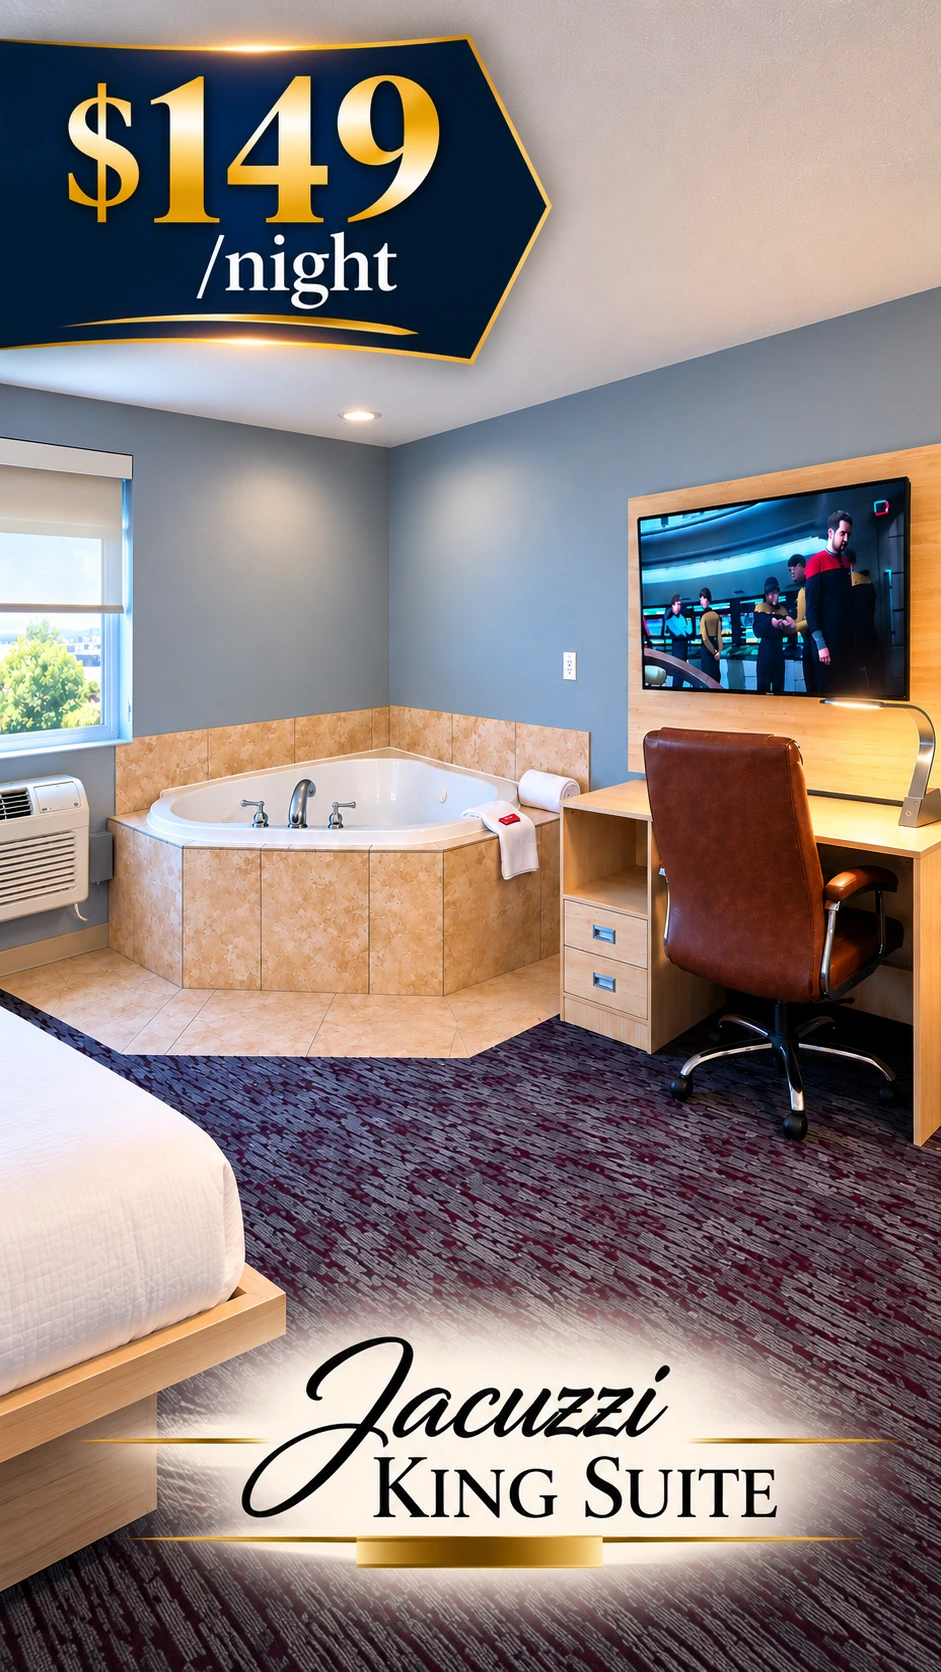
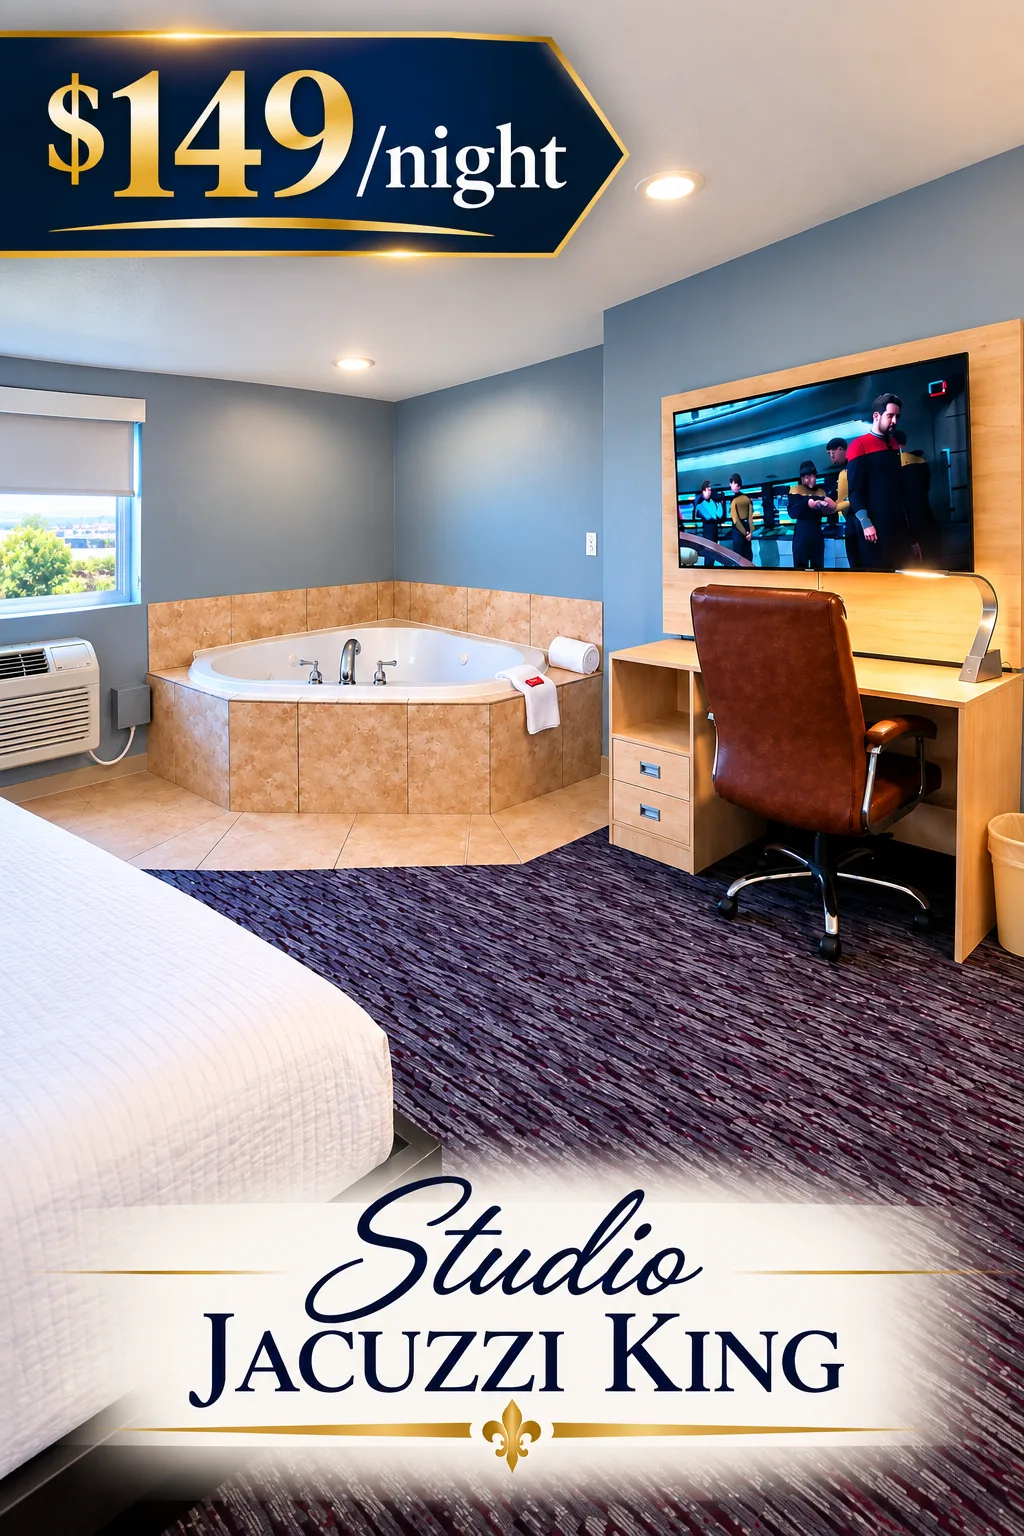
k

diff --git a/src/data/rooms.ts b/src/data/rooms.ts
@@ -1122,22 +1122,23 @@ export const ROOMS: Room[] = [
 
   // ───────────────────────────────────────────────────────────────────────────
   {
-    slug: 'jacuzzi-studio-king',
-    // Labelled "Jacuzzi King Suite" on the folder's own export, and listed as
-    // "King Jacuzzi Suite" in the old homepage rate table. RENAMED 2026-09-16
-    // on the owner's instruction — "use only Studio, not Suite" — following the
-    // rate card's pattern (Studio Queen, Studio King, Studio Two Queen). The
-    // labelled exports keep the old name in their pixels until re-exported.
-    name: 'Jacuzzi Studio King',
-    shortName: 'Jacuzzi Studio King',
-    heroSlideId: 'jacuzzi-studio-king',
+    slug: 'studio-jacuzzi-king',
+    // THE NAME IS THE OWNER'S OWN, off the labelled export. It has moved twice:
+    // "Jacuzzi King Suite" (the original export) → "Jacuzzi Studio King" (my
+    // reading of "use only Studio, not Suite", 2026-09-16) → "Studio Jacuzzi
+    // King", which is what the owner's re-exported label actually reads
+    // (2026-09-17, public/images/Jacuzzi-Studio/Jacuzzi-Studio-Labeled-$149.webp).
+    // Neither earlier slug was ever deployed, so no redirect is needed.
+    name: 'Studio Jacuzzi King',
+    shortName: 'Studio Jacuzzi King',
+    heroSlideId: 'studio-jacuzzi-king',
     eyebrow: 'In-Room Jacuzzi · One King Bed · Kitchenette',
-    // RATES.nightly.jacuzziStudioKing is null pending the owner's confirmation of
+    // RATES.nightly.studioJacuzziKing is null pending the owner's confirmation of
     // the $149 on the labelled export — see its note in rates.ts. Nothing below
     // states a price, so confirming it is a one-line change there. When it is,
     // add the price to seo.title and seo.description, the way every other room
     // carries its own.
-    nightly: nightlyQuote(RATES.nightly.jacuzziStudioKing),
+    nightly: nightlyQuote(RATES.nightly.studioJacuzziKing),
     weekly: WEEKLY_CALL_LINE,
     // Both reused verbatim from the homepage rate table's "King Jacuzzi Suite"
     // row, which has published them for this room since before this page.
@@ -1162,7 +1163,7 @@ export const ROOMS: Room[] = [
       src: 'images/Jacuzzi-Studio/Jacuzzi-Suite1.webp',
       portrait: 'images/Jacuzzi-Studio/Jacuzzi-Suite-phoneview1.webp',
       caption: 'The corner jacuzzi in the room itself, beside the desk and the window.',
-      alt: 'Jacuzzi Studio King with a corner jacuzzi in the room beside the desk — Best Western Vernal Inn, Vernal Utah',
+      alt: 'Studio Jacuzzi King with a corner jacuzzi in the room beside the desk — Best Western Vernal Inn, Vernal Utah',
     },
     gallery: [
       {
@@ -1229,7 +1230,7 @@ export const ROOMS: Room[] = [
       ...STANDARD_BATHROOM('Jacuzzi-Studio', 'Jacuzzi'),
     ],
     about: [
-      'The Jacuzzi Studio King is the room with the tub in it. A corner jacuzzi sits in a tiled surround in the main room — not behind the bathroom door — beside the desk and the window, so a long soak is part of the room rather than an afterthought. The homepage rate table lists it for romance and special occasions, and that is exactly what it is for.',
+      'The Studio Jacuzzi King is the room with the tub in it. A corner jacuzzi sits in a tiled surround in the main room — not behind the bathroom door — beside the desk and the window, so a long soak is part of the room rather than an afterthought. The homepage rate table lists it for romance and special occasions, and that is exactly what it is for.',
       'One king bed sits on a light-wood platform frame against the navy accent wall, with a panelled headboard, a wall-mounted reading light and a nightstand on each side. Beside it a two-seat sofa and a floor lamp sit by the window, which looks out over Vernal.',
       'It has the same kitchenette as the rest of the property — a sink and a two-burner cooktop in the counter, cabinets, a microwave, a coffee maker and a full-height refrigerator with a freezer — on a tiled floor. There is a desk with a leather office chair and a reading lamp under a wall-mounted TV, a table with two upholstered chairs by the door, and an open closet with a hanging rail, an iron and an ironing board. The bathroom is the property standard: a granite vanity with a backlit mirror, a full-size tub and shower combination, and a tiled floor.',
       'Free hot breakfast, free WiFi and free parking come with every stay, and the front desk is staffed around the clock. The homepage rate table lists this room as sleeping one to two. Weekly rates are quoted by phone.',
@@ -1257,9 +1258,9 @@ export const ROOMS: Room[] = [
       { label: '24-hour front desk', source: 'site' },
     ],
     seo: {
-      title: 'Jacuzzi Studio King — In-Room Jacuzzi | Best Western Vernal Inn, Vernal Utah',
+      title: 'Studio Jacuzzi King — In-Room Jacuzzi | Best Western Vernal Inn, Vernal Utah',
       description:
-        'Jacuzzi Studio King at Best Western Vernal Inn in Vernal, Utah: a corner jacuzzi in the room, one king bed, a sofa and a full kitchenette. Free hot breakfast, WiFi and parking. Weekly rates — call for price.',
+        'Studio Jacuzzi King at Best Western Vernal Inn in Vernal, Utah: a corner jacuzzi in the room, one king bed, a sofa and a full kitchenette. Free hot breakfast, WiFi and parking. Weekly rates — call for price.',
       bedType: 'King',
       // The rate table's "1–2" for this room, the same licence Studio King's
       // occupancy of 2 rests on.

diff --git a/src/data/homeRoomTabs.ts b/src/data/homeRoomTabs.ts
@@ -29,7 +29,7 @@
 // there fixes the homepage in the same edit. A filename that does not resolve
 // fails the build rather than shipping a broken tile.
 //
-// EVERY TAB IS DRIVEN BY ROOMS, the Jacuzzi Studio King's included. Until
+// EVERY TAB IS DRIVEN BY ROOMS, the Studio Jacuzzi King's included. Until
 // 2026-09-16 that one was written out by hand here, because the room had
 // photographs but no page. It has a page now; its nightly rate is still null
 // pending confirmation, which priceTag() renders as "Call for rate" without any
@@ -96,7 +96,7 @@ function frame(room: Room, file: string): RoomPhoto {
   return hit;
 }
 
-/** "Studio Queen · $95 a night", or "Jacuzzi Studio King · Call for rate". */
+/** "Studio Queen · $95 a night", or "Studio Jacuzzi King · Call for rate". */
 function priceTag(room: Room): string {
   return room.nightly.published
     ? `✦ ${room.shortName} · ${room.nightly.price} a night`
@@ -156,7 +156,7 @@ const studioTwoQueen = roomBySlug('studio-two-queen');
 const accessibleStudioKing = roomBySlug('accessible-studio-king');
 const petFriendlyStudioTwoQueen = roomBySlug('pet-friendly-studio-two-queen');
 const petFriendlyRoom = roomBySlug('pet-friendly-room');
-const jacuzziStudioKing = roomBySlug('jacuzzi-studio-king');
+const studioJacuzziKing = roomBySlug('studio-jacuzzi-king');
 
 export const ROOM_TABS: RoomTab[] = [
   {
@@ -318,27 +318,27 @@ export const ROOM_TABS: RoomTab[] = [
 
   // Driven by ROOMS like the others since 2026-09-16, when the room got its
   // page; it used to be written out by hand here. Its tag reads "Call for rate"
-  // through priceTag() while RATES.nightly.jacuzziStudioKing is null, and turns
+  // through priceTag() while RATES.nightly.studioJacuzziKing is null, and turns
   // into the price by itself once that is confirmed.
   {
-    id: 'jacuzzi-studio-king',
-    label: jacuzziStudioKing.shortName,
+    id: 'studio-jacuzzi-king',
+    label: studioJacuzziKing.shortName,
     panels: [
       leadPanel(
-        jacuzziStudioKing,
+        studioJacuzziKing,
         'Jacuzzi-Suite1.webp',
         'A Corner Jacuzzi,<br><em>Right There in the Room.</em>',
         ['🛁 In-Room Corner Jacuzzi', '🛏 King Bed', '🛋 Two-Seat Sofa', '🍳 Kitchenette', '📶 Free WiFi']
       ),
       detailPanel(
-        jacuzziStudioKing,
+        studioJacuzziKing,
         'Jacuzzi-Suite9.webp',
         'The Bed and the Sofa',
         'A King Bed,<br><em>and Somewhere Else to Sit.</em>',
         ['🛏 King Bed', '🛋 Two-Seat Sofa', '💡 Wall Reading Lights', '❄ In-Room Heat & A/C']
       ),
       detailPanel(
-        jacuzziStudioKing,
+        studioJacuzziKing,
         'Jacuzzi-Suite6.webp',
         'The Working End',
         'Desk, TV,<br><em>and the Kitchenette Beside It.</em>',

diff --git a/src/data/homeGallery.ts b/src/data/homeGallery.ts
@@ -117,16 +117,17 @@ export const HOME_GALLERY: GalleryTile[] = [
     rateKey: 'petFriendlyStudioTwoQueen',
   },
 
-  // The Jacuzzi Studio King is DELIBERATELY ABSENT, although it has had a room
-  // page since 2026-09-16. public/images/Jacuzzi-Studio/ holds a labelled export
-  // reading "$149/night", but RATES.nightly.jacuzziStudioKing is still null
-  // pending the owner's confirmation, and the homepage table prints "Call for
-  // rate" for it. Putting that picture here would advertise $149 a few hundred
-  // pixels above a table that declines to quote a price, which is the
-  // contradiction this file's guard exists to prevent. That export also still
-  // reads "Jacuzzi King Suite" — the room's old name — so it needs re-exporting
-  // as well. Once both are done it can join with
-  // `rateKey: 'jacuzziStudioKing'`, on the same terms as the room tiles above.
+  // The Studio Jacuzzi King is DELIBERATELY ABSENT, and only one thing is now
+  // missing. Its picture is ready: the owner re-exported
+  // images/Jacuzzi-Studio/Jacuzzi-Studio-Labeled-$149.webp on 2026-09-17,
+  // correctly labelled "Studio Jacuzzi King" over "$149/night". But
+  // RATES.nightly.studioJacuzziKing is still null — the owner has not confirmed
+  // that rate in writing — so the homepage table prints "Call for rate", and a
+  // tile advertising $149 a few hundred pixels above it is exactly the
+  // contradiction this file's guard exists to prevent (the guard would reject
+  // it anyway: a printed price against a null rate). Confirm the rate in
+  // rates.ts and add the tile here with `rateKey: 'studioJacuzziKing'`, on the
+  // same terms as the room tiles above.
 
   // ── Breakfast ──────────────────────────────────────────────────────────────
   {

diff --git a/src/data/rates.ts b/src/data/rates.ts
@@ -19,7 +19,7 @@
 //   nightly — CONFIRMED, published, SIX room types, $95 to $155. The Studio
 //             Queen (then "Queen Suite") at $95 was added on 2026-09-09 and is
 //             the lowest published rate on the card; see the key's own note.
-//             A seventh key, the Jacuzzi Studio King, is null (unconfirmed).
+//             A seventh key, the Studio Jacuzzi King, is null (unconfirmed).
 //   weekly  — WITHDRAWN. Quoted by phone only. Every customer-facing weekly
 //             dollar amount has been removed from the site; the copy is
 //             WEEKLY_CALL_LINE. Do not restore $588 / $660 / $700.
@@ -89,7 +89,7 @@ export const RATES = {
      *  "Call for pricing" — what the rate table already said for this room.
      *  Confirm it and change null to 149 here: every one of those, and the
      *  room page's JSON-LD Offer, follows on the next build. */
-    jacuzziStudioKing: null as number | null,
+    studioJacuzziKing: null as number | null,
   },
 
   /** Monthly rates. All null: the site currently ranks for "monthly hotels vernal

diff --git a/docs/BUSINESS_KNOWLEDGE_WORKBOOK.md b/docs/BUSINESS_KNOWLEDGE_WORKBOOK.md
@@ -291,16 +291,16 @@ Room names are the hotel's own, taken from the September 2026 rate card. They di
 | Monthly | | | | |
 | Typical negotiated corporate | | | | |
 
-**Jacuzzi studios and Studio King (Kitchenette)** *(formerly "Jacuzzi Suite": King Suite with kitchenette, King Jacuzzi, Jacuzzi Double Queen — renamed 2026-09-16, "use only Studio, not Suite": Studio King (Kitchenette), Jacuzzi Studio King, Jacuzzi Studio Two Queen)*
+**Jacuzzi studios and Studio King (Kitchenette)** *(formerly "Jacuzzi Suite": King Suite with kitchenette, King Jacuzzi, Jacuzzi Double Queen — renamed 2026-09-16, "use only Studio, not Suite": Studio King (Kitchenette), Studio Jacuzzi King, Studio Jacuzzi Two Queen)*
 
 | Rate type | Peak season | Off season | Minimum stay | Confidence |
 |---|---|---|---|---|
-| Nightly | *(no confirmed number)* — the owner's labelled export for the **Jacuzzi Studio King** (labelled with its old name, "Jacuzzi King Suite") reads **$149/night** | | | Pending |
+| Nightly | *(no confirmed number)* — the owner's labelled export for the **Studio Jacuzzi King** (labelled with its old name, "Jacuzzi King Suite") reads **$149/night** | | | Pending |
 | Weekly (7 nights) | *Not published — call for price* | *Not published — call for price* | | GM Approved |
 | Monthly | | | | |
 | Typical negotiated corporate | | | | |
 
-> **2026-09-16:** the Jacuzzi Studio King (first built as "Jacuzzi King Suite", renamed the same day — the owner: "use only Studio, not Suite") now has a room page (`/rooms/jacuzzi-studio-king`), built from the owner's photographs. Its nightly rate is **not** published — `RATES.nightly.jacuzziStudioKing` is `null`, so every surface reads "Call for pricing". The $149 on the labelled export is recorded here as the owner's figure, pending confirmation, exactly as the Studio Queen's $95 (then called the Queen Suite) was before it went live. Confirm it and it becomes "GM Approved", then one line in `rates.ts`. The Jacuzzi Double Queen Suite has neither photographs nor a page.
+> **2026-09-16:** the Studio Jacuzzi King (first built as "Jacuzzi King Suite", renamed the same day — the owner: "use only Studio, not Suite") now has a room page (`/rooms/jacuzzi-studio-king`), built from the owner's photographs. Its nightly rate is **not** published — `RATES.nightly.jacuzziStudioKing` is `null`, so every surface reads "Call for pricing". The $149 on the labelled export is recorded here as the owner's figure, pending confirmation, exactly as the Studio Queen's $95 (then called the Queen Suite) was before it went live. Confirm it and it becomes "GM Approved", then one line in `rates.ts`. The Jacuzzi Double Queen Suite has neither photographs nor a page.
 
 #### Withdrawn rates — historical only, do not restore
 
@@ -343,7 +343,7 @@ Kept as a record of what the website used to publish, so that a future reader wh
 
 Five rules, agreed with the hotel. They exist because breaking the last two is exactly how the retired "$84/night" ended up on ten pages and in structured data.
 
-1. **The nightly rates in §2.2 are confirmed** and are published: $95 Studio Queen (added 2026-09-09) / $108 Studio King / $120 Studio Two Queen / $120 Handicap / Accessible Studio King (was $108 until 2026-09-17) / $155 Pet-Friendly Studio Two Queen / $135 Pet-Friendly Room. The Jacuzzi Studio King's is not — see its note in §2.2.
+1. **The nightly rates in §2.2 are confirmed** and are published: $95 Studio Queen (added 2026-09-09) / $108 Studio King / $120 Studio Two Queen / $120 Handicap / Accessible Studio King (was $108 until 2026-09-17) / $155 Pet-Friendly Studio Two Queen / $135 Pet-Friendly Room. The Studio Jacuzzi King's is not — see its note in §2.2.
 2. **Weekly rates are not published.** No weekly dollar amount appears anywhere customer-facing — not in body copy, page titles, meta descriptions, FAQ answers, rate tables, or JSON-LD.
 3. **Guests call for weekly pricing.** The published wording is exactly **"Weekly Rates — Call for Price"**, held once in code as `WEEKLY_CALL_LINE` in `src/data/rates.ts`.
 4. **Never calculate a weekly rate from a nightly rate.** Multiplying $108 by seven is not the weekly price and must never be presented as one.
@@ -374,7 +374,7 @@ The code enforces rules 4 and 5 structurally rather than by convention: `RATES.w
 | Handicap / Accessible Studio King | Yes — incl. accessible bathroom | `Handicapped-Studio/` | 10 |
 | Pet-Friendly Studio Two Queen | Yes — full coverage | `Pet-Friendly-Double-Queen/` | 11 |
 | **Pet-Friendly Room ($135)** | **No — none exist** | — | 0 (page says so) |
-| **Jacuzzi Suite** | **No — CGI renders only** *(superseded 2026-09-16: the owner photographed the **Jacuzzi Studio King**, first named Jacuzzi King Suite — `Jacuzzi-Studio/`, full coverage; the Jacuzzi Studio Two Queen is still unphotographed)* | `37/44/49/49a.webp` → `Jacuzzi-Studio/` | 11, page live, rate pending |
+| **Jacuzzi Suite** | **No — CGI renders only** *(superseded 2026-09-16: the owner photographed the **Studio Jacuzzi King**, first named Jacuzzi King Suite — `Jacuzzi-Studio/`, full coverage; the Studio Jacuzzi Two Queen is still unphotographed)* | `37/44/49/49a.webp` → `Jacuzzi-Studio/` | 11, page live, rate pending |
 
 **Three findings that change what the website may say:**
 
@@ -390,7 +390,7 @@ The code enforces rules 4 and 5 structurally rather than by convention: `RATES.w
 |---|---|
 | Photograph the **$135 Pet-Friendly Room** | Its page currently carries no gallery at all. It is the only priced room with no photography. |
 | Photograph the **Studio King kitchenette** | The King folder has the bed and the bathroom only. Its kitchenette photograph is borrowed from another studio and labelled as such. |
-| ~~Photograph a **Jacuzzi Suite**~~ | **Done 2026-09-16** for the Jacuzzi Studio King (first named Jacuzzi King Suite); its page is live. Still needed: a confirmed nightly rate (§2.2 — the label reads $149), re-exports of the labelled photos with "Studio" names and current prices, and photographs of the Jacuzzi Studio Two Queen if it is to have a page. |
+| ~~Photograph a **Jacuzzi Suite**~~ | **Done 2026-09-16** for the Studio Jacuzzi King (first named Jacuzzi King Suite); its page is live. Still needed: a confirmed nightly rate (§2.2 — the label reads $149), re-exports of the labelled photos with "Studio" names and current prices, and photographs of the Studio Jacuzzi Two Queen if it is to have a page. |
 | Re-shoot `39a.webp` / `26.webp` **without a person in frame** | Both are real and usable otherwise. |
 
 ---
